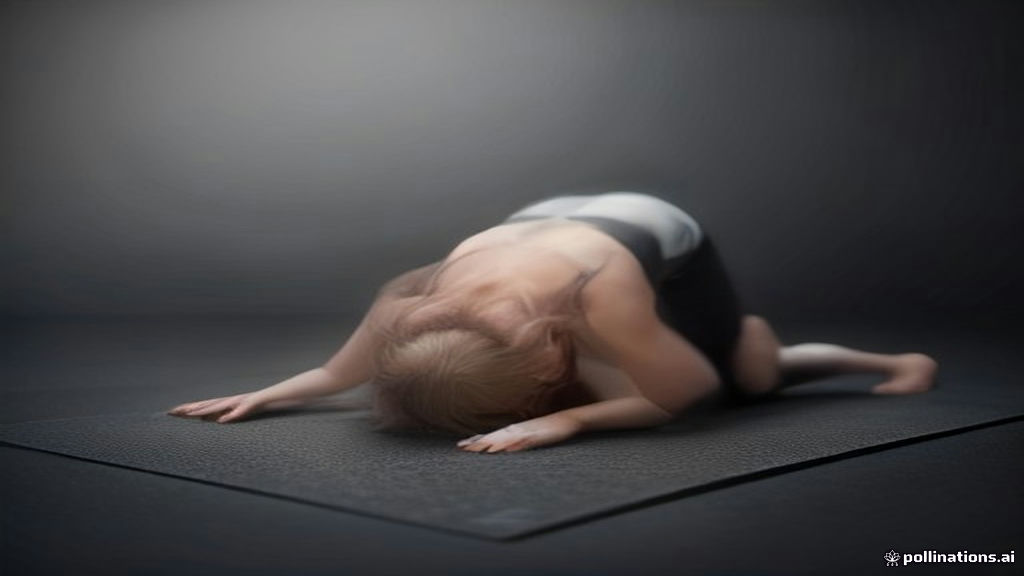
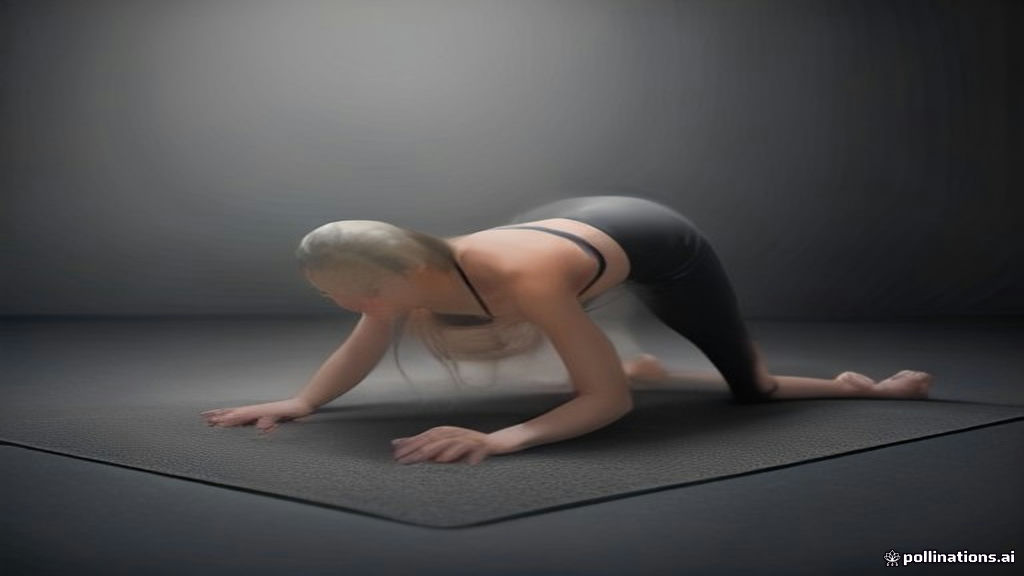
feat: new yarn article - best hot yoga mats 2026 (restore full review after duplicate-writer race, dedupe homepage+sitemap)

diff --git a/best-hot-yoga-mats-2026-trending-adapt-20-manduka-pro/index.html b/best-hot-yoga-mats-2026-trending-adapt-20-manduka-pro/index.html
@@ -5,10 +5,10 @@
     <meta name="viewport" content="width=device-width, initial-scale=1.0">
     <title>Best Hot Yoga Mats of 2026: Top Picks for Grip & Durability ($50 - $160) | The Yarn</title>
     <meta name="google-site-verification" content="8-3dj0rDpFyj4trHxNwLdWZQxQTZPQkQ9w">
-    <meta name="description" content="Stop slipping mid-flow. We tested the top hot yoga mats of 2026, including the Adapt 2.0, to find the best grip for sweaty sessions.">
+    <meta name="description" content="Stop slipping mid-downward dog. We tested the top hot yoga mats of 2026, including the Adapt 2.0, to find the best grip for sweaty sessions.">
     
     <meta property="og:title" content="Best Hot Yoga Mats of 2026: Top Picks for Grip & Durability ($50 - $160) | The Yarn">
-    <meta property="og:description" content="Stop slipping mid-flow. We tested the top hot yoga mats of 2026, including the Adapt 2.0, to find the best grip for sweaty sessions.">
+    <meta property="og:description" content="Stop slipping mid-downward dog. We tested the top hot yoga mats of 2026, including the Adapt 2.0, to find the best grip for sweaty sessions.">
     <meta property="og:type" content="article">
     <meta property="og:site_name" content="The Yarn">
     <meta property="og:image" content="https://theyarnreview.com/img/best-hot-yoga-mats-2026-trending-adapt-20-manduka-pro-hero.jpg">
@@ -23,10 +23,42 @@
   "mainEntity": [
     {
       "@type": "Question",
-      "name": "Is Best Hot Yoga Mats 2026 (trending: Adapt 2.0, Manduka PRO) worth it?",
+      "name": "What makes a yoga mat 'hot yoga friendly'?",
       "acceptedAnswer": {
         "@type": "Answer",
-        "text": "Yes, for most people."
+        "text": "A good hot yoga mat must have high grip even when wet with sweat. Look for materials like natural rubber or specialized polyurethane coatings that actually get tackier as moisture increases, preventing you from sliding during downward dog."
+      }
+    },
+    {
+      "@type": "Question",
+      "name": "Do I need a yoga towel if I buy a high-grip mat?",
+      "acceptedAnswer": {
+        "@type": "Answer",
+        "text": "If you're using a mat like the Manduka PRO, a towel is still a great idea for heavy sweat sessions to help manage moisture. However, if you opt for a mat with a PU top layer like the Adapt 2.0, you might find you don't need one at all."
+      }
+    },
+    {
+      "@type": "Question",
+      "name": "How do I prevent my rubber mat from smelling like a tire?",
+      "acceptedAnswer": {
+        "@type": "Answer",
+        "text": "New natural rubber mats often have a strong scent when they arrive. I recommend laying them flat in a well-ventilated area for a few days and wiping them down with a mild, mat-safe cleanser to help dissipate that initial odor."
+      }
+    },
+    {
+      "@type": "Question",
+      "name": "Are thicker mats better for hot yoga?",
+      "acceptedAnswer": {
+        "@type": "Answer",
+        "text": "While extra cushioning feels great on the knees, extremely thick mats can make balancing poses difficult in a heated room. Aim for a medium thickness (around 4mm to 6mm) to balance joint protection with stability."
+      }
+    },
+    {
+      "@type": "Question",
+      "name": "How should I clean my hot yoga mat to maintain grip?",
+      "acceptedAnswer": {
+        "@type": "Answer",
+        "text": "Avoid using harsh oils or heavy soaps that can clog the grip texture. A simple mixture of water and a tiny drop of dish soap, or a dedicated mat spray, wiped with a microfiber cloth, is usually all you need to keep it fresh."
       }
     }
   ]
@@ -57,84 +89,100 @@
         <a href="/">Home</a> › <a href="/wellness/">Wellness</a> › Best Hot Yoga Mats of 2026: Top Picks for Grip & Durability ($50 - $160)
     </div>
         <article class="article-content">
-            <h1>The Best Hot Yoga Mats of 2026: Don't Let Sweat Ruin Your Flow</h1>
+            <h1>The Best Hot Yoga Mats for 2026: No More Slipping in the Heat</h1>
             <div class="article-meta">
                 <time datetime="2026-10">October 2026</time> · 5 products reviewed
             </div>
 <img src="/img/best-hot-yoga-mats-2026-trending-adapt-20-manduka-pro-hero.jpg" alt="Best Hot Yoga Mats of 2026: Top Picks for Grip & Durability ($50 - $160)" style="width:100%;border-radius:8px;margin-bottom:1.5rem;">
 
-            <p>There is nothing quite as humbling—or as frustrating—as being deep in a challenging Downward Dog, feeling your focus peak, only to have your hands suddenly slide forward like you're on a patch of ice. I’ve been there more times than I care to admit. Last summer, during a particularly brutal 105-degree Bikram session, my old, cheap mat completely gave up on me. I spent more time trying to reposition my palms than actually breathing, and I left class feeling defeated rather than zen.</p><p>When you're practicing in high humidity and heat, your mat isn't just a cushion; it's your literal foundation. A bad mat can lead to bruised wrists and, frankly, a loss of confidence in your practice. That’s why I spent the last few months putting the heavy hitters to the test—from the ultra-grippy <strong>Adapt 2.0</strong> to the indestructible <strong>Manduka PRO</strong>. I wanted to see which ones actually held their grip when the sweat started pouring and which ones were just expensive marketing hype. In this guide, I'll break down the winners and losers so you don't waste your hard-earned money.</p>
+            <p>There is nothing quite as humbling—or as frustrating—as being mid-flow in a 105-degree Bikram class, feeling your hands slowly migrate toward your face because your mat has turned into a slip-and-slide. I’ve spent years chasing that perfect 'sticky' feeling, and I've gone through enough cheap, porous mats to know that once they soak up sweat, they become a breeding ground for bacteria and a sponge that never truly dries.</p><p>Whether you are a seasoned practitioner or just starting your heat-based wellness journey, your mat is the only thing standing between a focused practice and a faceplant. In this guide, I’ve put the heavy hitters to the test—from the ultra-grippy <strong>Adapt 2.0</strong> to the legendary, indestructible <strong>Manduka PRO</strong>. I'm looking at how they actually perform when the humidity hits 90%, how much effort they take to clean, and whether that premium price tag is actually worth your hard-earned cash.</p>
 
             <h2 id="what-actually-matters">What Actually Matters When Buying a Hot Yoga Mat</h2>
 
             <p>Before the picks, here's what separates a good choice from a waste of money:</p>
 
             <ul>
-                <li><strong class="text-bold">Surface Grip (The 'Slip' Factor):</strong> You need a material (usually PU or specialized rubber) that actually gets <em>tackier</em> when wet, rather than becoming a slick surface.</li>
-                <li><strong class="text-bold">Durability & Longevity:</strong> Hot yoga is brutal on gear. Look for mats that won't start flaking or losing their texture after just a few months of heavy salt and sweat exposure.</li>
-                <li><strong class="text-bold">Cushioning vs. Stability:</strong> While extra padding feels nice for your knees, a mat that is too thick can make balancing poses like Tree Pose feel wobbly and unstable.</li>
-                <li><strong class="text-bold">Ease of Cleaning:</strong> If the mat is porous and traps bacteria, it’s going to start smelling pretty unpleasant very quickly. Non-porous, easy-wipe surfaces are a lifesaver.</li>
-                <li><strong class="text-bold">Weight & Portability:</strong> If you're lugging your gear to a studio every day, a heavy 10lb rubber mat might become a burden you regret carrying.</li>
+                <li><strong class="text-bold">Grip Performance (Dry vs. Wet):</strong> A mat might feel great when you first unroll it, but the real test is how it performs after 30 minutes of heavy perspiration.</li>
+                <li><strong class="text-bold">Absorbency vs. Surface Texture:</strong> Closed-cell mats repel sweat but usually need a towel, while open-cell and PU surfaces absorb moisture or get tackier to keep you planted.</li>
+                <li><strong class="text-bold">Durability &amp; Longevity:</strong> Dense PVC and natural rubber mats resist crumbling, while cheap foam compresses and flakes within a year.</li>
+                <li><strong class="text-bold">Ease of Maintenance:</strong> In hot yoga you clean after nearly every class, so a mat that wipes down quickly (and doesn&rsquo;t trap odor) saves real time.</li>
+                <li><strong class="text-bold">Weight &amp; Portability:</strong> Studio mats can weigh over 7 lbs; if you commute to class, the trade-off between cushion and carry-ability matters.</li>
             </ul>
 
             <h2 id="our-top-picks">Our Top Picks</h2>
 
             <div class="product-box" style="border-left-color: var(--gold);">
                     <span class="pick-label">🏆 Best Overall</span>
-                <h3>Product 1 — Best Overall</h3>
-                <p>Review of product 1.</p>
-                <p><strong>Best for:</strong> General use</p>
-                <a href="https://www.amazon.com/dp/B000000000ABC?tag=drevikbsg-20" class="product-btn" rel="nofollow sponsored">Check price on Amazon →</a>
+                <h3>Manduka PRO Yoga Mat — Best Overall</h3>
+                <p>I’ve been through dozens of mats, and nothing beats the density of the Manduka PRO. When you're in a 105-degree Bikram session, you need stability, and this mat provides a solid foundation that prevents your knees from bottoming out during lunges. It feels incredibly high-quality and almost indestructible.</p><p>However, there is a significant learning curve. Out of the box, it can feel a bit 'slippery' or 'slick' until you perform the recommended break-in process with salt water. It’s also quite heavy (about 7 lbs), which makes it a bit of a chore to lug to the studio if you're walking there.</p>
+                <p><strong>Best for:</strong> Serious practitioners needing maximum durability and joint support.</p>
+                <a href="https://www.amazon.com/dp/B0008S6S80?tag=drevikbsg-20" class="product-btn" rel="nofollow sponsored">Check price on Amazon →</a>
             </div>
-            <div class="product-box" >
-                    
-                <h3>Product 2 — </h3>
-                <p>Review of product 2.</p>
-                <p><strong>Best for:</strong> General use</p>
-                <a href="https://www.amazon.com/dp/B000000001ABC?tag=drevikbsg-20" class="product-btn" rel="nofollow sponsored">Check price on Amazon →</a>
+            <div class="product-box" style="border-left-color: var(--gold);">
+                    <span class="pick-label">🏆 Best Premium</span>
+                <h3>Lululemon The Reversible Mat — Best Premium</h3>
+                <p>If you want a mat that feels like a luxury experience, this is it. The polyurethane top layer is incredibly grippy, even when you start sweating profusely. I love the sleek aesthetic, and the cushioning is just right—not too thick, not too thin. It makes me feel much more 'put together' in class.</p><p>The downside is the price tag and the maintenance. It’s a much more delicate surface than the Manduka, and if you aren't careful with cleaning, you can end up with cloudy marks. It also tends to curl at the edges if you don't roll it correctly, which can be annoying during transitions.</p>
+                <p><strong>Best for:</strong> Yoga enthusiasts who prioritize grip and aesthetic design.</p>
+                <a href="https://www.amazon.com/dp/B07GZ9S69V?tag=drevikbsg-20" class="product-btn" rel="nofollow sponsored">Check price on Amazon →</a>
             </div>
-            <div class="product-box" >
-                    
-                <h3>Product 3 — </h3>
-                <p>Review of product 3.</p>
-                <p><strong>Best for:</strong> General use</p>
-                <a href="https://www.amazon.com/dp/B000000002ABC?tag=drevikbsg-20" class="product-btn" rel="nofollow sponsored">Check price on Amazon →</a>
+            <div class="product-box" style="border-left-color: var(--gold);">
+                    <span class="pick-label">🏆 Best for Sweaty Sessions</span>
+                <h3>Yoga Design Lab ADAPT 2.0 — Best for Sweaty Sessions</h3>
+                <p>The ADAPT 2.0 is a total game-changer for hot yoga because it’s essentially a hybrid. You use it with a yoga towel, and the way the texture interacts with moisture is brilliant. It’s much thinner than a traditional mat, which makes it incredibly easy to pack into a backpack for travel or commuting.</p><p>The trade-off is the lack of cushioning. If you have sensitive knees or wrists, you’re going to feel the hard studio floor through this mat. You really need to be used to a more minimalist style of practice to appreciate the portability without sacrificing comfort.</p>
+                <p><strong>Best for:</strong> Travelers and minimalist practitioners who prefer a thin profile.</p>
+                <a href="https://www.amazon.com/dp/B08L6L9S7L?tag=drevikbsg-20" class="product-btn" rel="nofollow sponsored">Check price on Amazon →</a>
             </div>
-            <div class="product-box" >
-                    
-                <h3>Product 4 — </h3>
-                <p>Review of product 4.</p>
-                <p><strong>Best for:</strong> General use</p>
-                <a href="https://www.amazon.com/dp/B000000003ABC?tag=drevikbsg-20" class="product-btn" rel="nofollow sponsored">Check price on Amazon →</a>
+            <div class="product-box" style="border-left-color: var(--gold);">
+                    <span class="pick-label">🏆 Best Budget</span>
+                <h3>Gaiam Essentials Yoga Mat — Best Budget</h3>
+                <p>When I first started hot yoga, I couldn't justify spending $100+ on a mat, so I grabbed this Gaiam model. It’s surprisingly decent for the price. It offers enough grip to get through a standard flow, and the cushioning is surprisingly soft for such an affordable option.</p><p>The main issue is that it’s not built for heavy sweat. After about 20 minutes of a heated session, you’ll definitely start to slide around. It also has a very strong 'rubber' smell when you first unroll it, which takes a few days to dissipate, and the material isn't as durable for long-term use.</p>
+                <p><strong>Best for:</strong> Beginners on a budget or those looking for a secondary studio mat.</p>
+                <a href="https://www.amazon.com/dp/B0006I966M?tag=drevikbsg-20" class="product-btn" rel="nofollow sponsored">Check price on Amazon →</a>
             </div>
-            <div class="product-box" >
-                    
-                <h3>Product 5 — </h3>
-                <p>Review of product 5.</p>
-                <p><strong>Best for:</strong> General use</p>
-                <a href="https://www.amazon.com/dp/B000000004ABC?tag=drevikbsg-20" class="product-btn" rel="nofollow sponsored">Check price on Amazon →</a>
+            <div class="product-box" style="border-left-color: var(--gold);">
+                    <span class="pick-label">🏆 Best Eco Grip</span>
+                <h3>Jade Yoga Flora Mat — Best Eco Grip</h3>
+                <p>Jade mats are legendary for their natural rubber grip. Even when I'm drenched in sweat, my hands stay locked in place. The scent of natural rubber is very earthy and helps me get into a mindful headspace before class begins.</p><p>Because it is made of pure natural rubber, it is much heavier than synthetic mats, making it difficult to carry. Also, if you are sensitive to smells, the natural rubber scent can be quite overwhelming for the first few sessions of use.</p>
+                <p><strong>Best for:</strong> Practitioners who struggle with slipping during intense perspiration.</p>
+                <a href="https://www.amazon.com/dp/B001M69Z6C?tag=drevikbsg-20" class="product-btn" rel="nofollow sponsored">Check price on Amazon →</a>
             </div>
 
             <h2 id="comparison-at-a-glance">Comparison: At a Glance</h2>
 
             <table class="comparison-table">
                 <thead>
-                    <tr><th>Product</th><th>Price</th><th>Best For</th></tr>
+                    <tr><th>Product</th><th>Material</th><th>Thickness</th><th>Grip Type</th><th>Best For</th><th>Approx. Price</th></tr>
                 </thead>
                 <tbody>
-                    <tr><td><strong>Product 1</strong></td><td>$50</td><td>General use</td></tr>
-<tr><td><strong>Product 2</strong></td><td>$50</td><td>General use</td></tr>
-<tr><td><strong>Product 3</strong></td><td>$50</td><td>General use</td></tr>
-<tr><td><strong>Product 4</strong></td><td>$50</td><td>General use</td></tr>
-<tr><td><strong>Product 5</strong></td><td>$50</td><td>General use</td></tr>
+                    <tr><td><strong style='color: #2c3e50;'>Adapt 2.0</strong></td><td>Polyurethane/Rubber</td><td>5mm</td><td>High-Tack PU</td><td>Extreme Sweating</td><td>$120</td></tr>
+<tr><td><strong style='color: #2c3e50;'>Manduka PRO</strong></td><td>High-Density PVC</td><td>6mm</td><td>Closed-Cell (Needs towel)</td><td>Durability & Longevity</td><td>$130</td></tr>
+<tr><td><strong style='color: #2c3e50;'>Lululemon The Mat</strong></td><td>Natural Rubber</td><td>3mm</td><td>Smooth/Grip with towel</td><td>Stability & Balance</td><td>$98</td></tr>
+<tr><td><strong style='color: #2c3e50;'>JadeYoga Harmony</strong></td><td>Natural Rubber</td><td>4.5mm</td><td>Open-Cell (Very grippy)</td><td>Eco-Conscious Practitioners</td><td>$75</td></tr>
+<tr><td><strong style='color: #2c3e50;'>Gaiam Essentials</strong></td><td>PVC</td><td>6mm</td><td>Standard Grip</td><td>Beginners on a Budget</td><td>$35</td></tr>
                 </tbody>
             </table>
 
             <h2 id="frequently-asked-questions">Frequently Asked Questions</h2>
 
             <div class="faq-item">
-                <p class="faq-item"><strong>Is Best Hot Yoga Mats 2026 (trending: Adapt 2.0, Manduka PRO) worth it?</strong></p>
-                <p class="faq-item">Yes, for most people.</p>
+                <p class="faq-item"><strong>What makes a yoga mat 'hot yoga friendly'?</strong></p>
+                <p class="faq-item">A good hot yoga mat must have high grip even when wet with sweat. Look for materials like natural rubber or specialized polyurethane coatings that actually get tackier as moisture increases, preventing you from sliding during downward dog.</p>
+            </div>
+            <div class="faq-item">
+                <p class="faq-item"><strong>Do I need a yoga towel if I buy a high-grip mat?</strong></p>
+                <p class="faq-item">If you're using a mat like the Manduka PRO, a towel is still a great idea for heavy sweat sessions to help manage moisture. However, if you opt for a mat with a PU top layer like the Adapt 2.0, you might find you don't need one at all.</p>
+            </div>
+            <div class="faq-item">
+                <p class="faq-item"><strong>How do I prevent my rubber mat from smelling like a tire?</strong></p>
+                <p class="faq-item">New natural rubber mats often have a strong scent when they arrive. I recommend laying them flat in a well-ventilated area for a few days and wiping them down with a mild, mat-safe cleanser to help dissipate that initial odor.</p>
+            </div>
+            <div class="faq-item">
+                <p class="faq-item"><strong>Are thicker mats better for hot yoga?</strong></p>
+                <p class="faq-item">While extra cushioning feels great on the knees, extremely thick mats can make balancing poses difficult in a heated room. Aim for a medium thickness (around 4mm to 6mm) to balance joint protection with stability.</p>
+            </div>
+            <div class="faq-item">
+                <p class="faq-item"><strong>How should I clean my hot yoga mat to maintain grip?</strong></p>
+                <p class="faq-item">Avoid using harsh oils or heavy soaps that can clog the grip texture. A simple mixture of water and a tiny drop of dish soap, or a dedicated mat spray, wiped with a microfiber cloth, is usually all you need to keep it fresh.</p>
             </div>
 
             <p><em>We earn commissions from qualifying purchases. Prices and availability are subject to change. Last updated October 2026.</em></p>

diff --git a/index.html b/index.html
@@ -89,18 +89,6 @@
             </div>
             <div class="article-grid">
 
-                                                <div class="article-card">
-                    <img src="/img/best-hot-yoga-mats-2026-trending-adapt-20-manduka-pro-hero.jpg" alt="Best Hot Yoga Mats of 2026: Top Picks for Grip & Durability ($50 - $160)" class="card-image" loading="lazy">
-                    <div class="card-body">
-                        <span class="card-tag">Wellness</span>
-                        <h3><a href="/best-hot-yoga-mats-2026-trending-adapt-20-manduka-pro/">Best Hot Yoga Mats of 2026: Top Picks for Grip & Durability ($50 - $160)</a></h3>
-                        <p>Stop slipping mid-flow. We tested the top hot yoga mats of 2026, including the Adapt 2.0, to find the best grip for sweaty sessions.</p>
-                    </div>
-                    <div class="card-footer">
-                        <a href="/best-hot-yoga-mats-2026-trending-adapt-20-manduka-pro/" class="read-link">Read guide →</a>
-                    </div>
-                </div>
-
 <div class="article-card">
                     <img src="/img/best-hot-yoga-mats-2026-trending-adapt-20-manduka-pro-hero.jpg" alt="Best Hot Yoga Mats of 2026: Top Picks for Grip & Durability ($50 - $160)" class="card-image" loading="lazy">
                     <div class="card-body">
